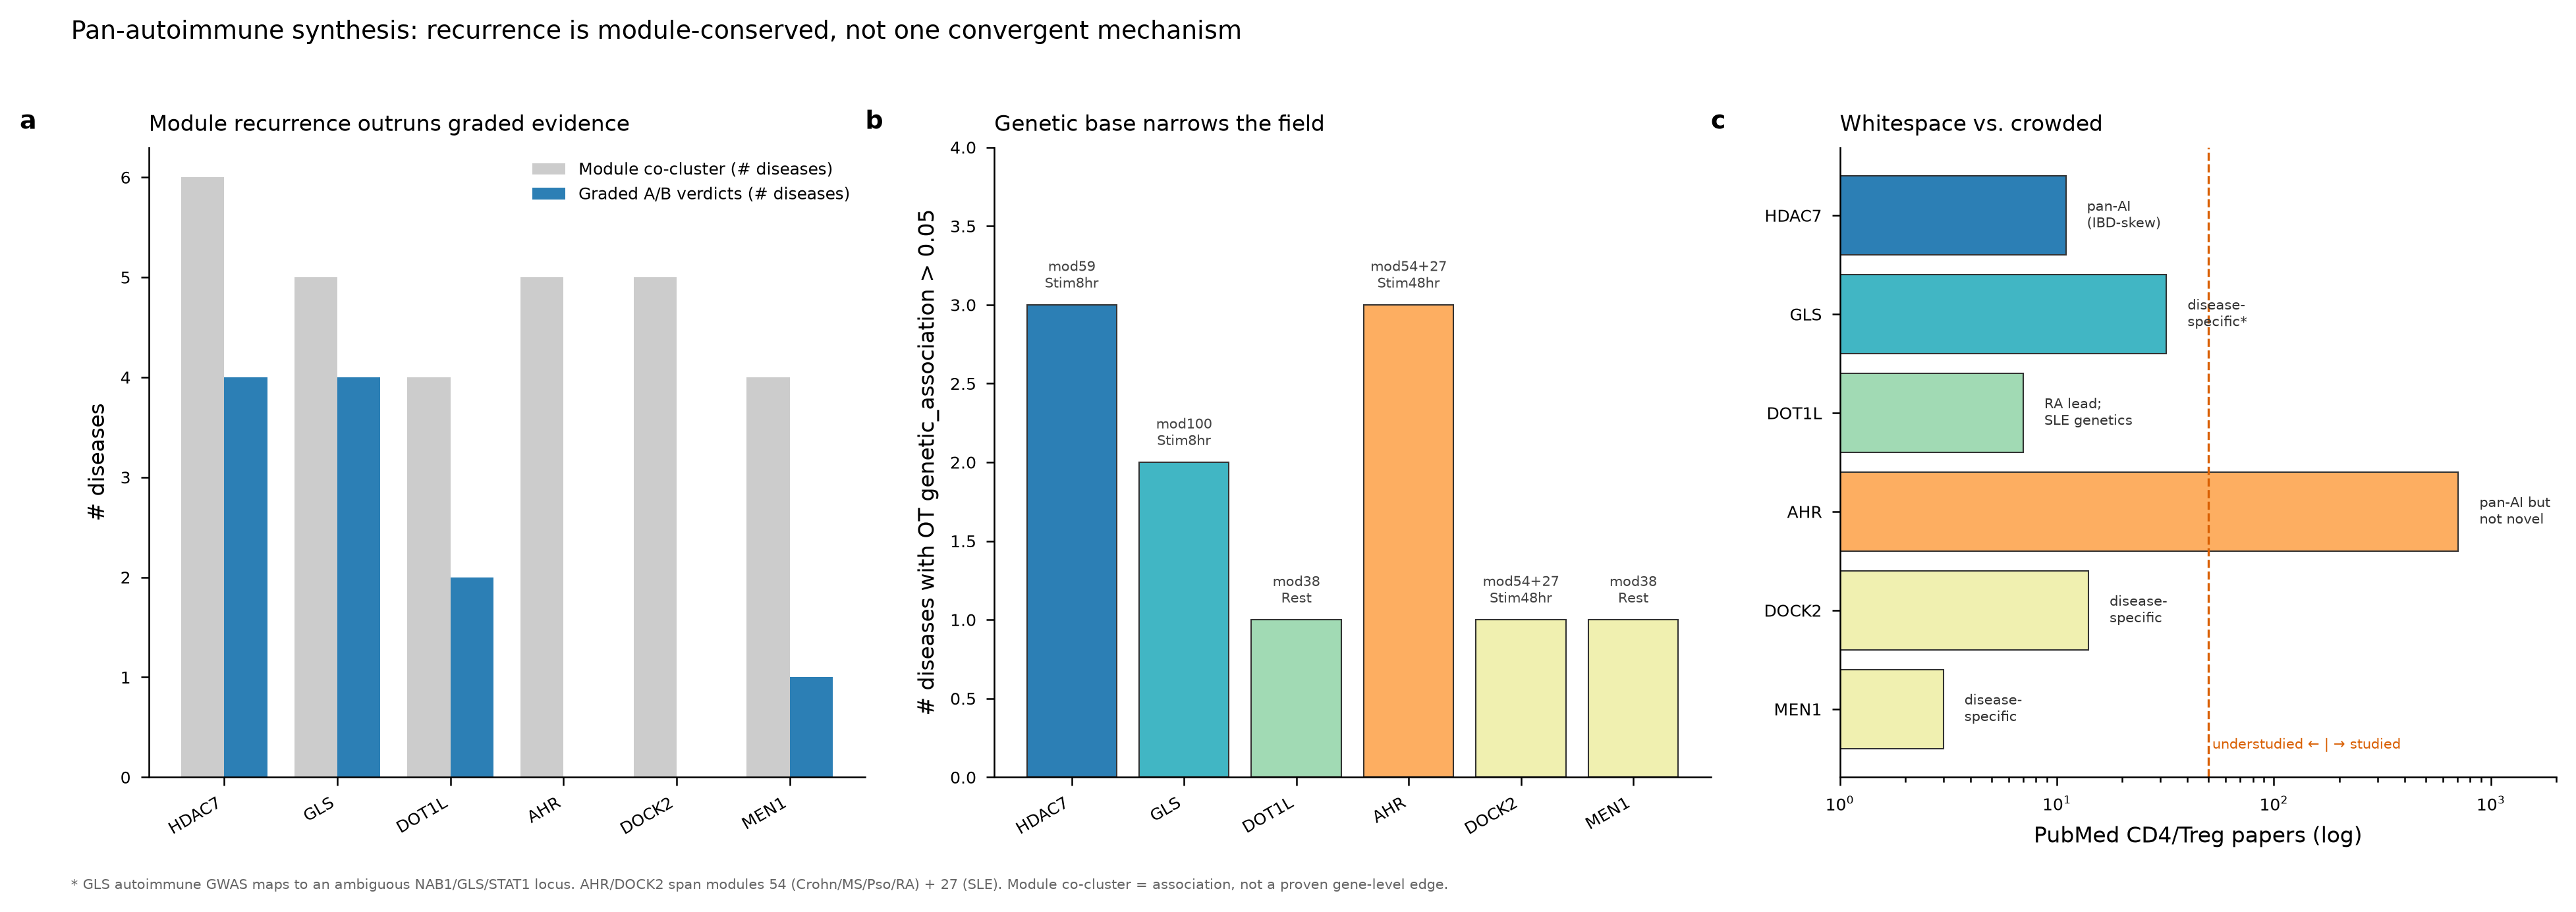
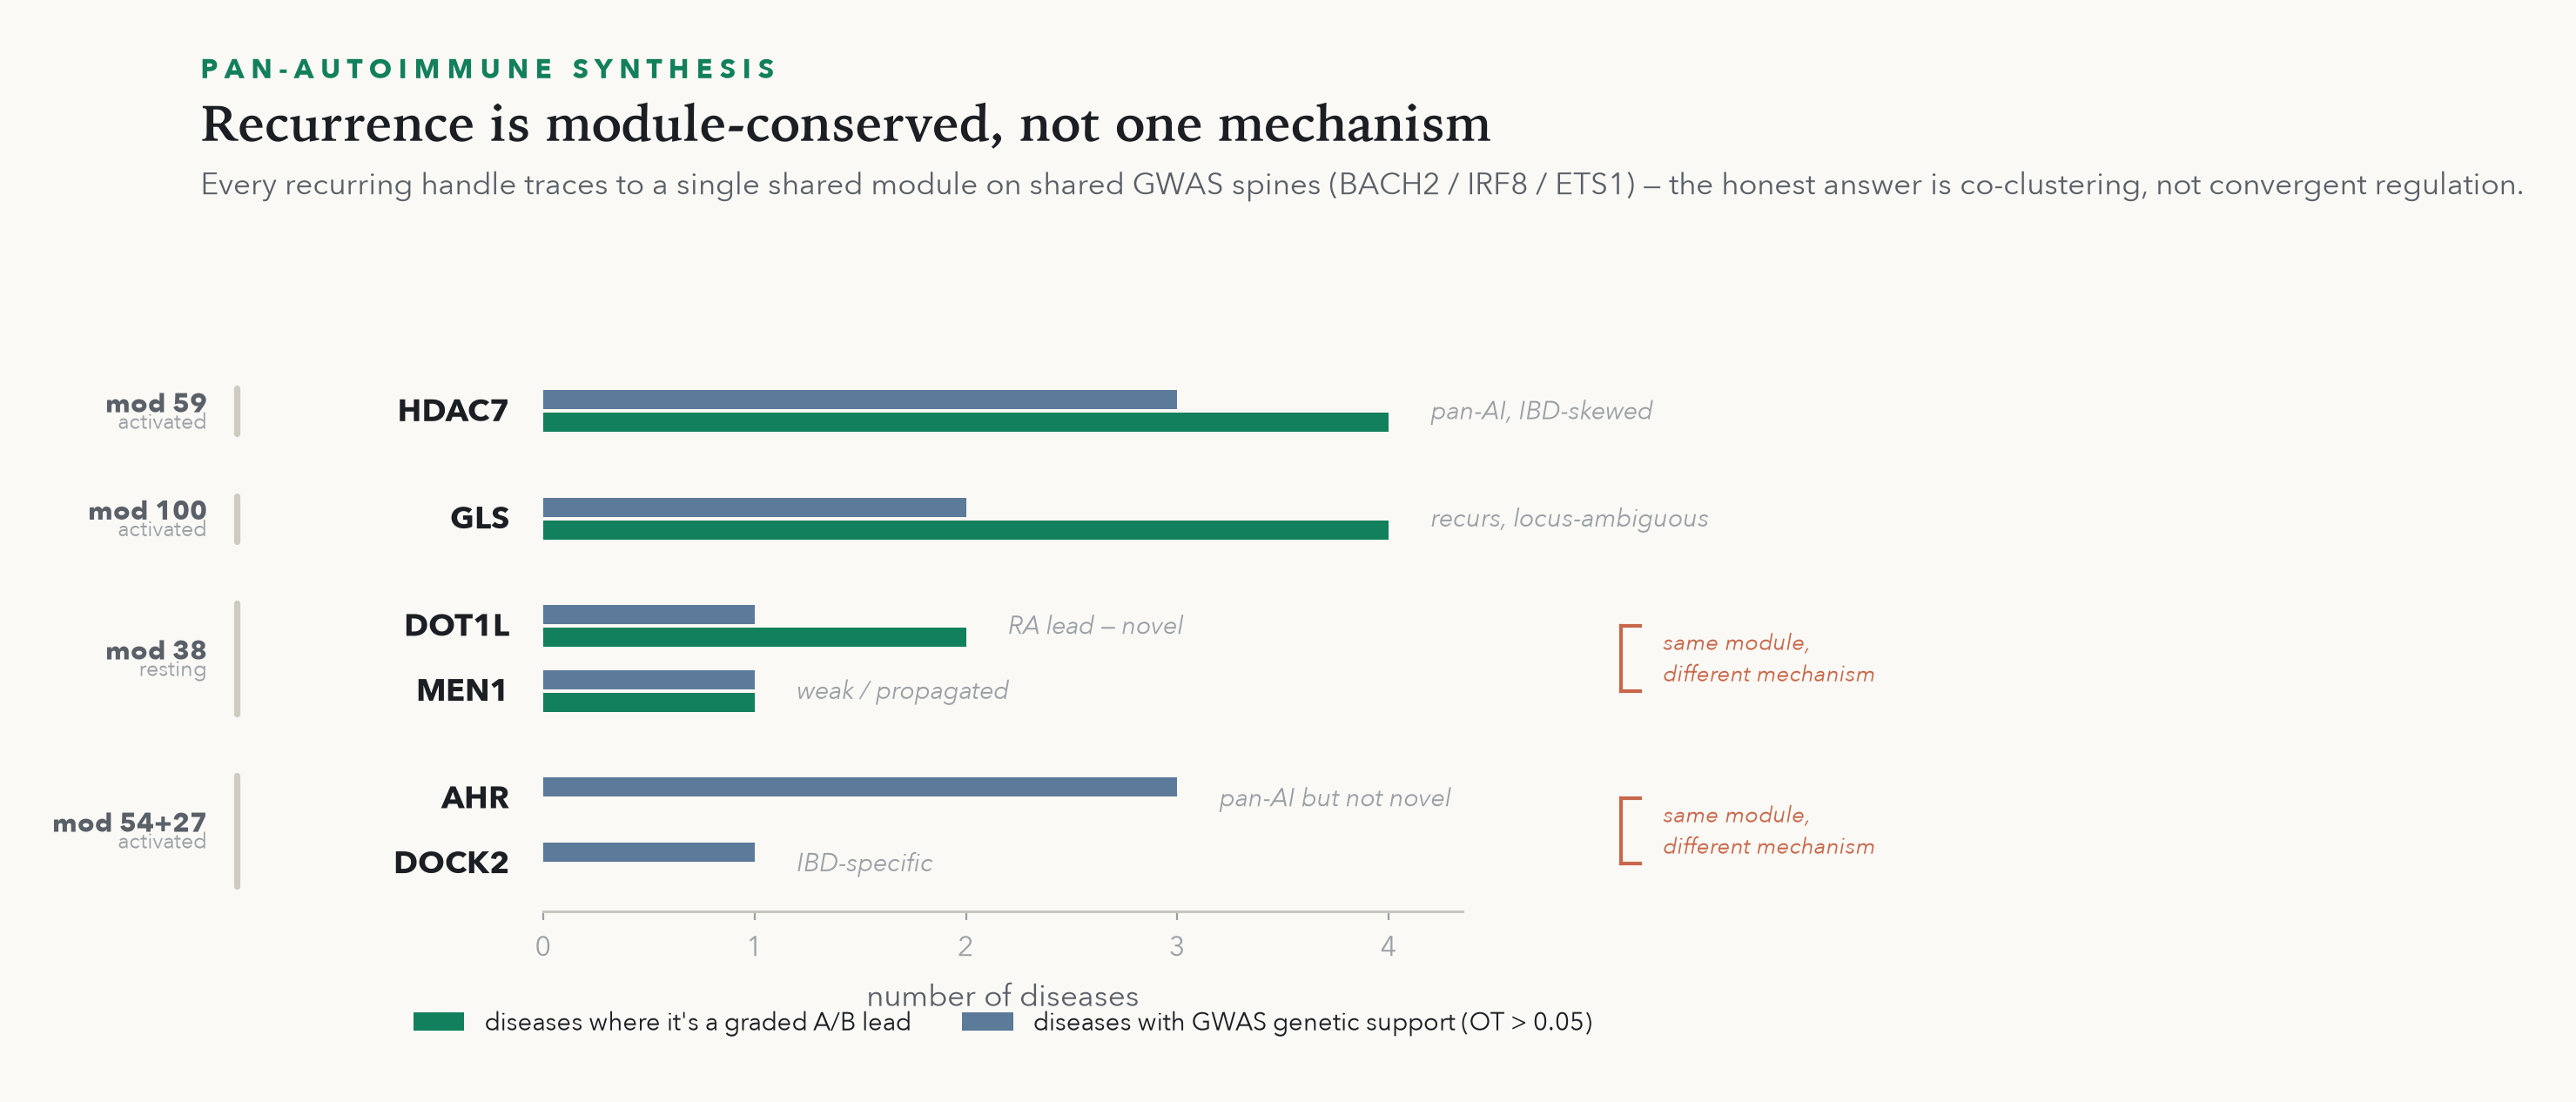
Figures: editorial redesign of the two synthesis charts (one cohesive family)
Give th2_conserved_hub + pan_autoimmune_synthesis the opportunity-map's visual identity so the README
figure set reads as one designed system. New reproducible matplotlib scripts on a shared style module:

- scripts/figstyle.py — shared palette (identical to opportunity_map.py: emerald/slate/clay/stone on
  paper) + Iowan Old Style / Avenir Next type + a header() masthead helper. matplotlib now available for
  figure scripts (opportunity_map stays hand-SVG; both share the same palette + fonts).
- scripts/fig_th2_hub.py — the Th2 dumbbell (PPM1D/METAP2 recur across asthma+eczema in module 88),
  data verified against the asthma/eczema kb_verdicts.
- scripts/fig_pan_autoimmune.py — rebuilt from ONLY the verified cross_disease_synthesis.csv columns
  (graded-A/B count + genetic-base count), grouped by shared module with "same module, different
  mechanism" braces on the DOT1L↔MEN1 and AHR↔DOCK2 pairs. The old grey "module-recurrence" bar (from
  Science's own methodology, not cleanly reproducible) and the whitespace panel (now the opportunity
  map) are dropped — every value on the new figure traces to a source.

README/SUBMISSION embed the same filenames, so they pick up the new PNGs automatically.

diff --git a/scripts/fig_pan_autoimmune.py b/scripts/fig_pan_autoimmune.py
@@ -1,0 +1,83 @@
+#!/usr/bin/env python3
+"""Pan-autoimmune synthesis — the recurring handles recur via SHARED MODULES on shared GWAS spines,
+NOT one convergent mechanism. All values are the verified columns of cross_disease_synthesis.csv
+(#dis A/B graded, and OT genetic-assoc #dis>0.05). Genes are grouped by the module they share, so the
+two module-mate pairs (DOT1L↔MEN1 on mod38, AHR↔DOCK2 on mod54) read as "same module, different mechanism".
+The old whitespace panel is dropped — the opportunity map now does that job.
+
+    python scripts/fig_pan_autoimmune.py   ->  docs/figures/pan_autoimmune_synthesis.png
+"""
+import sys
+from pathlib import Path
+sys.path.insert(0, str(Path(__file__).resolve().parent.parent))
+import matplotlib.pyplot as plt
+import scripts.figstyle as S  # noqa
+
+S.apply()
+
+# (module label, state, is_pair, [(gene, n_graded_AB, n_genetic, verdict) ...])  — cross_disease_synthesis.csv
+GROUPS = [
+    ("mod 59", "activated", False, [("HDAC7", 4, 3, "pan-AI, IBD-skewed")]),
+    ("mod 100", "activated", False, [("GLS", 4, 2, "recurs, locus-ambiguous")]),
+    ("mod 38", "resting", True, [("DOT1L", 2, 1, "RA lead — novel"), ("MEN1", 1, 1, "weak / propagated")]),
+    ("mod 54+27", "activated", True, [("AHR", 0, 3, "pan-AI but not novel"), ("DOCK2", 0, 1, "IBD-specific")]),
+]
+BAR_H, ROW_GAP, GROUP_GAP, MAXX = 0.34, 1.15, 0.75, 4
+
+fig, ax = plt.subplots(figsize=(9.6, 5.8))
+rows, spans, y = [], [], 0.0                       # build top-down (first group highest)
+for mlabel, state, is_pair, genes in GROUPS:
+    grows = []
+    for gene, ng, gen, verdict in genes:
+        rows.append((gene, ng, gen, verdict, y)); grows.append(y); y -= ROW_GAP
+    spans.append((mlabel, state, is_pair, min(grows), max(grows)))
+    y -= GROUP_GAP
+
+for gene, ng, gen, verdict, yy in rows:
+    ax.barh(yy + BAR_H / 2 + 0.03, gen, height=BAR_H, color=S.SLATE, zorder=2)
+    ax.barh(yy - BAR_H / 2 - 0.03, ng, height=BAR_H, color=S.EMERALD, zorder=2)
+    ax.text(-0.16, yy, gene, ha="right", va="center", family=S.SANS, fontsize=13, fontweight="bold", color=S.INK)
+    ax.text(max(ng, gen) + 0.2, yy, verdict, ha="left", va="center", family=S.SANS,
+            fontsize=10.5, fontstyle="italic", color=S.INK_FAINT)
+
+# module brackets + horizontal labels on the left
+BR_X = -1.45
+for mlabel, state, is_pair, ymin, ymax in spans:
+    ax.plot([BR_X, BR_X], [ymin - BAR_H - 0.06, ymax + BAR_H + 0.06], color="#CFCBBF",
+            lw=2.6, clip_on=False, zorder=1, solid_capstyle="round")
+    yc = (ymin + ymax) / 2
+    ax.text(BR_X - 0.14, yc + 0.13, mlabel, ha="right", va="center", family=S.SANS, fontsize=11,
+            fontweight="bold", color=S.INK_SOFT, clip_on=False)
+    ax.text(BR_X - 0.14, yc - 0.19, state, ha="right", va="center", family=S.SANS, fontsize=9,
+            color=S.INK_FAINT, clip_on=False)
+
+# "same module, different mechanism" brace over each pair (right side)
+BX = 5.1
+for mlabel, state, is_pair, ymin, ymax in spans:
+    if is_pair:
+        ax.plot([BX, BX], [ymin, ymax], color=S.TERRA, lw=1.5, clip_on=False)
+        for yy in (ymin, ymax):
+            ax.plot([BX, BX + 0.09], [yy, yy], color=S.TERRA, lw=1.5, clip_on=False)
+        ax.text(BX + 0.2, (ymin + ymax) / 2, "same module,\ndifferent mechanism", ha="left", va="center",
+                family=S.SANS, fontsize=9.5, fontstyle="italic", color=S.TERRA, clip_on=False)
+
+ax.set_xlim(0, MAXX + 0.35)
+ax.set_ylim(min(r[4] for r in rows) - 0.85, max(r[4] for r in rows) + 0.8)
+ax.set_yticks([])
+ax.set_xticks(range(MAXX + 1))
+ax.set_xlabel("number of diseases", family=S.SANS)
+for s in ("left", "right", "top"):
+    ax.spines[s].set_visible(False)
+
+# legend below the axis (proxy handles), clear of the bars
+h1 = ax.barh(0, 0, color=S.EMERALD, label="diseases where it's a graded A/B lead")
+h2 = ax.barh(0, 0, color=S.SLATE, label="diseases with GWAS genetic support (OT > 0.05)")
+ax.legend(handles=[h1, h2], loc="upper center", bbox_to_anchor=(0.5, -0.13), ncol=2, fontsize=10.5)
+
+S.header(fig, "Pan-autoimmune synthesis", "Recurrence is module-conserved, not one mechanism",
+         "Every recurring handle traces to a single shared module on shared GWAS spines (BACH2 / IRF8 / ETS1) — the honest answer is co-clustering, not convergent regulation.",
+         top=0.985)
+fig.subplots_adjust(top=0.70, bottom=0.16, left=0.25, right=0.80)
+
+p = S.save(fig, "pan_autoimmune_synthesis.png")
+print(f"wrote {p.relative_to(S.REPO)} ({p.stat().st_size} bytes)")

diff --git a/scripts/fig_th2_hub.py b/scripts/fig_th2_hub.py
@@ -1,0 +1,74 @@
+#!/usr/bin/env python3
+"""Th2-conserved hub — PPM1D & METAP2 recur across asthma + atopic eczema in the SAME type-2
+cytokine module (88); GLS/CBLB sit in the activation module (100), eczema-only. A dumbbell/
+connection chart. Data verified against the asthma + eczema *_kb_verdicts.csv (module, disease).
+
+    python scripts/fig_th2_hub.py   ->  docs/figures/th2_conserved_hub.png
+"""
+import sys
+from pathlib import Path
+sys.path.insert(0, str(Path(__file__).resolve().parent.parent))
+import matplotlib.pyplot as plt
+import scripts.figstyle as S  # noqa
+
+S.apply()
+
+# (gene, in_asthma, in_eczema, module)   module 88 = type-2 cytokine hub; 100 = activation/costim
+ROWS = [
+    ("PPM1D",  True,  True,  88),
+    ("METAP2", True,  True,  88),
+    ("RASA2",  False, True,  88),
+    ("GLS",    False, True,  100),
+    ("CBLB",   False, True,  100),
+]
+COL = {"asthma": 1.0, "atopic eczema": 3.0}
+MODCOL = {88: S.EMERALD, 100: S.CLAY}
+
+fig, ax = plt.subplots(figsize=(9.2, 5.4))
+ax.axis("off")
+ax.set_xlim(-0.15, 4.35)
+ax.set_ylim(0.3, 5.9)
+
+n = len(ROWS)
+for i, (gene, in_a, in_e, mod) in enumerate(ROWS):
+    y = n - i
+    ax.text(-0.05, y, gene, ha="right", va="center", family=S.SANS, fontsize=13.5,
+            fontweight="bold", color=S.INK)
+    col = MODCOL[mod]
+    # connecting line first (behind dots) if it recurs across both diseases
+    if in_a and in_e:
+        ax.plot([COL["asthma"], COL["atopic eczema"]], [y, y], color=col, lw=2.4, alpha=0.55, zorder=1)
+    for dz, present in (("asthma", in_a), ("atopic eczema", in_e)):
+        if present:
+            ax.scatter(COL[dz], y, s=560, color=col, edgecolor=S.PAPER, linewidth=2, zorder=3)
+            ax.text(COL[dz], y, f"m{mod}", ha="center", va="center", family=S.SANS,
+                    fontsize=9, fontweight="bold", color="white", zorder=4)
+
+# column headers
+for dz, xx in COL.items():
+    ax.text(xx, 5.72, dz, ha="center", va="center", family=S.SANS, fontsize=13.5,
+            fontweight="bold", color=S.INK_SOFT)
+
+# the GLS bridge annotation
+gy = n - 3
+ax.annotate("GLS also recurs in Th1/Th17\ndiseases — via other modules",
+            xy=(COL["atopic eczema"] + 0.18, gy), xytext=(COL["atopic eczema"] + 0.42, gy),
+            ha="left", va="center", family=S.SANS, fontsize=10.5, fontstyle="italic", color=S.CLAY)
+
+# legend (manual, bottom-left under the plot)
+ly = 0.62
+ax.scatter(0.35, ly, s=300, color=S.EMERALD, edgecolor=S.PAPER, linewidth=1.5)
+ax.text(0.55, ly, "module 88 — type-2 cytokine hub (IL4 / IL13 / IL5)", va="center",
+        family=S.SANS, fontsize=11, color=S.INK_SOFT)
+ax.scatter(0.35, ly - 0.001, s=0)  # spacer noop
+ax.scatter(2.75, ly, s=300, color=S.CLAY, edgecolor=S.PAPER, linewidth=1.5)
+ax.text(2.95, ly, "module 100 — activation / costim (REL / EGR2 / BACH2)", va="center",
+        family=S.SANS, fontsize=11, color=S.INK_SOFT)
+
+S.header(fig, "Th2-conserved hub", "One hub recurs across both allergic diseases",
+         "PPM1D and METAP2 sit in the same type-2 cytokine module in asthma and eczema — a shared Th2 axis, disjoint from the Th1/Th17 diseases.",
+         top=0.99)
+fig.subplots_adjust(top=0.72, bottom=0.02, left=0.11, right=0.98)
+
+p = S.save(fig, "th2_conserved_hub.png")
+print(f"wrote {p.relative_to(S.REPO)} ({p.stat().st_size} bytes)")

diff --git a/scripts/figstyle.py b/scripts/figstyle.py
@@ -1,0 +1,51 @@
+"""Shared editorial style for Louis's figures — one visual family (palette + type) so the whole
+README figure set reads as a designed system, matching the hand-authored opportunity map.
+
+The opportunity map is hand-SVG (qlmanage-rendered); these matplotlib figures share its palette and
+its Iowan Old Style / Avenir Next type, so the set feels cohesive while staying reproducible.
+"""
+import matplotlib as mpl
+import matplotlib.pyplot as plt
+from pathlib import Path
+
+REPO = Path(__file__).resolve().parent.parent
+FIG = REPO / "docs" / "figures"
+
+# palette — identical to scripts/opportunity_map.py
+INK, INK_SOFT, INK_FAINT = "#1B1F24", "#5A6068", "#9AA0A6"
+PAPER = "#FAF9F5"
+EMERALD, EMERALD_DK = "#12805C", "#0D6446"
+SLATE, CLAY, STONE = "#5C7A99", "#B7823B", "#9A968C"
+TERRA, GRID = "#C8674A", "#E4E1D8"
+SERIF, SANS = "Iowan Old Style", "Avenir Next"
+
+
+def apply():
+    mpl.rcParams.update({
+        "figure.facecolor": PAPER, "axes.facecolor": PAPER, "savefig.facecolor": PAPER,
+        "font.family": SANS, "font.size": 12, "text.color": INK,
+        "axes.edgecolor": "#C9C6BD", "axes.linewidth": 1.1,
+        "axes.labelcolor": INK_SOFT, "axes.labelsize": 12.5,
+        "xtick.color": INK_FAINT, "ytick.color": INK_SOFT,
+        "xtick.labelsize": 11.5, "ytick.labelsize": 12,
+        "axes.spines.top": False, "axes.spines.right": False,
+        "axes.titlesize": 14, "axes.titleweight": "bold", "axes.titlecolor": INK,
+        "legend.frameon": False, "legend.fontsize": 11.5,
+        "figure.dpi": 150, "svg.fonttype": "none",
+    })
+
+
+def header(fig, eyebrow, headline, sub=None, x=0.045, top=0.965, hsize=21):
+    """Eyebrow (emerald caps) + serif headline + optional sans subtitle — the opportunity-map masthead."""
+    fig.text(x, top, " ".join(eyebrow.upper()), family=SANS, fontsize=11, fontweight="bold", color=EMERALD)
+    fig.text(x, top - 0.062, headline, family=SERIF, fontsize=hsize, fontweight="bold", color=INK)
+    if sub:
+        fig.text(x, top - 0.115, sub, family=SANS, fontsize=12.5, color=INK_SOFT)
+
+
+def save(fig, name, pad=0.3):
+    FIG.mkdir(parents=True, exist_ok=True)
+    p = FIG / name
+    fig.savefig(p, dpi=200, bbox_inches="tight", pad_inches=pad)
+    plt.close(fig)
+    return p